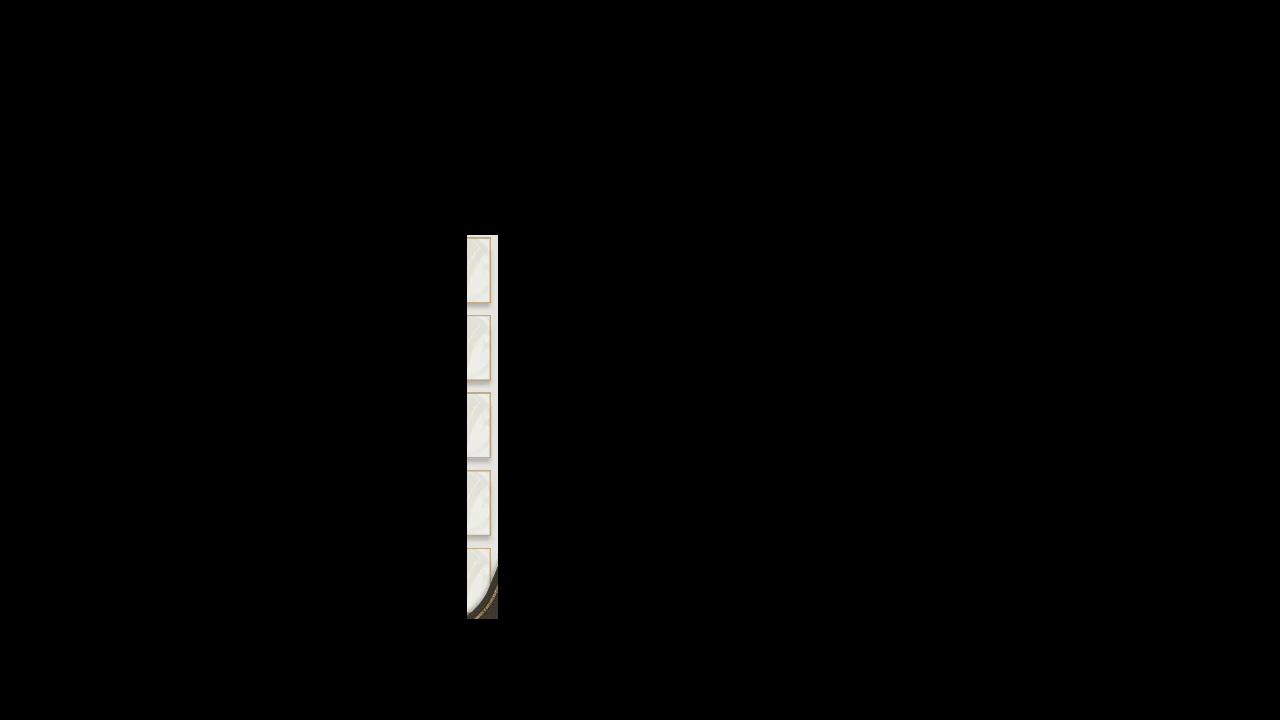
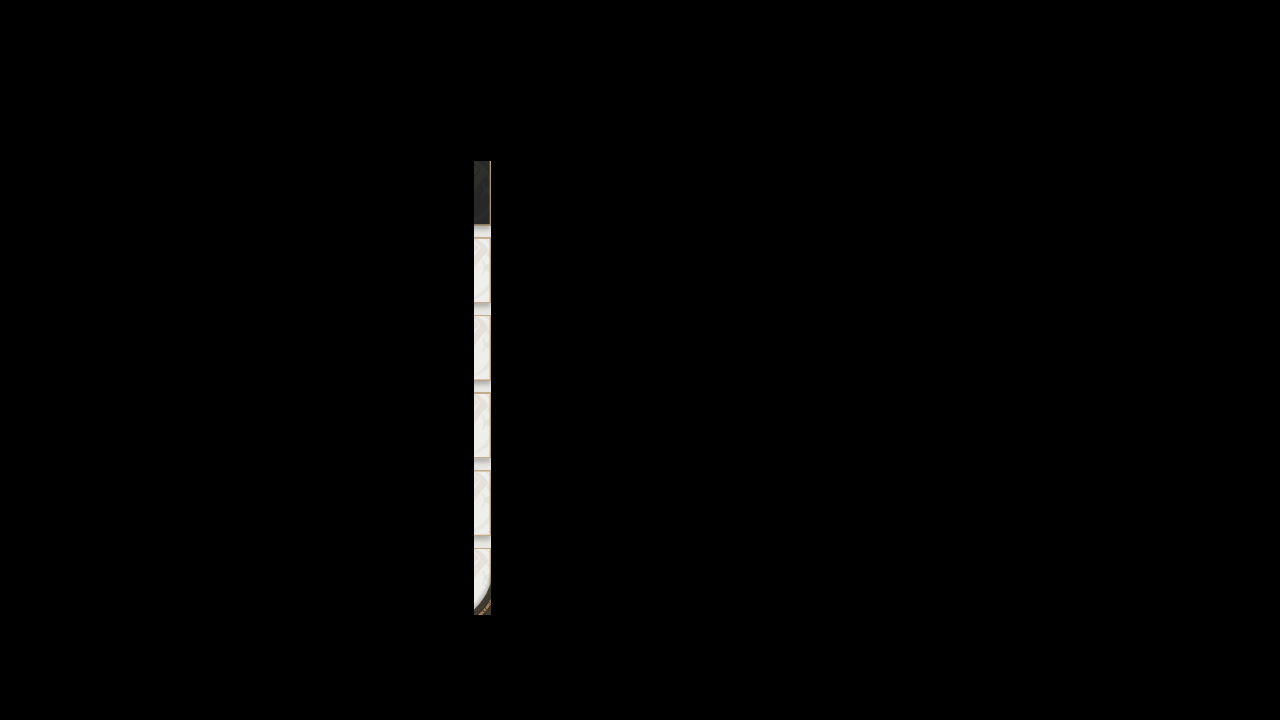
Fix: Ensure exiting assignment report

Changed region(s): [[0.3438, 0.2139, 0.4062, 0.8556]]

diff --git a/tasks/assignment/claim.py b/tasks/assignment/claim.py
@@ -80,9 +80,11 @@ class AssignmentClaim(AssignmentDispatch):
                 logger.info('Assignment report is closed')
                 break
             # Close report
-            if self.appear(REPORT, interval=2):
+            if self.appear(REPORT, interval=1):
                 self.device.click(click_button)
                 continue
+        # Ensure report totally disappears
+        self._wait_until_entry_loaded()
 
     def _is_duration_expected(self, duration: int) -> bool:
         """

diff --git a/tasks/assignment/assets/assets_assignment_ui.py b/tasks/assignment/assets/assets_assignment_ui.py
@@ -58,10 +58,10 @@ ENTRY_LOADED = ButtonWrapper(
     name='ENTRY_LOADED',
     share=Button(
         file='./assets/share/assignment/ui/ENTRY_LOADED.png',
-        area=(467, 235, 498, 619),
-        search=(447, 215, 518, 639),
-        color=(217, 214, 205),
-        button=(467, 235, 498, 619),
+        area=(474, 161, 491, 615),
+        search=(454, 141, 511, 635),
+        color=(197, 193, 186),
+        button=(474, 161, 491, 615),
     ),
 )
 EXP_MATERIALS_CREDITS_CHECK = ButtonWrapper(

diff --git a/tasks/assignment/ui.py b/tasks/assignment/ui.py
@@ -196,8 +196,7 @@ class AssignmentUI(UI):
             if timeout.reached():
                 logger.warning('Wait entry loaded timeout')
                 break
-            # Maybe not reliable
-            if self.image_color_count(ENTRY_LOADED, (35, 35, 35)):
+            if self.image_color_count(ENTRY_LOADED, (35, 35, 35), count=800):
                 logger.info('Entry loaded')
                 break
 
